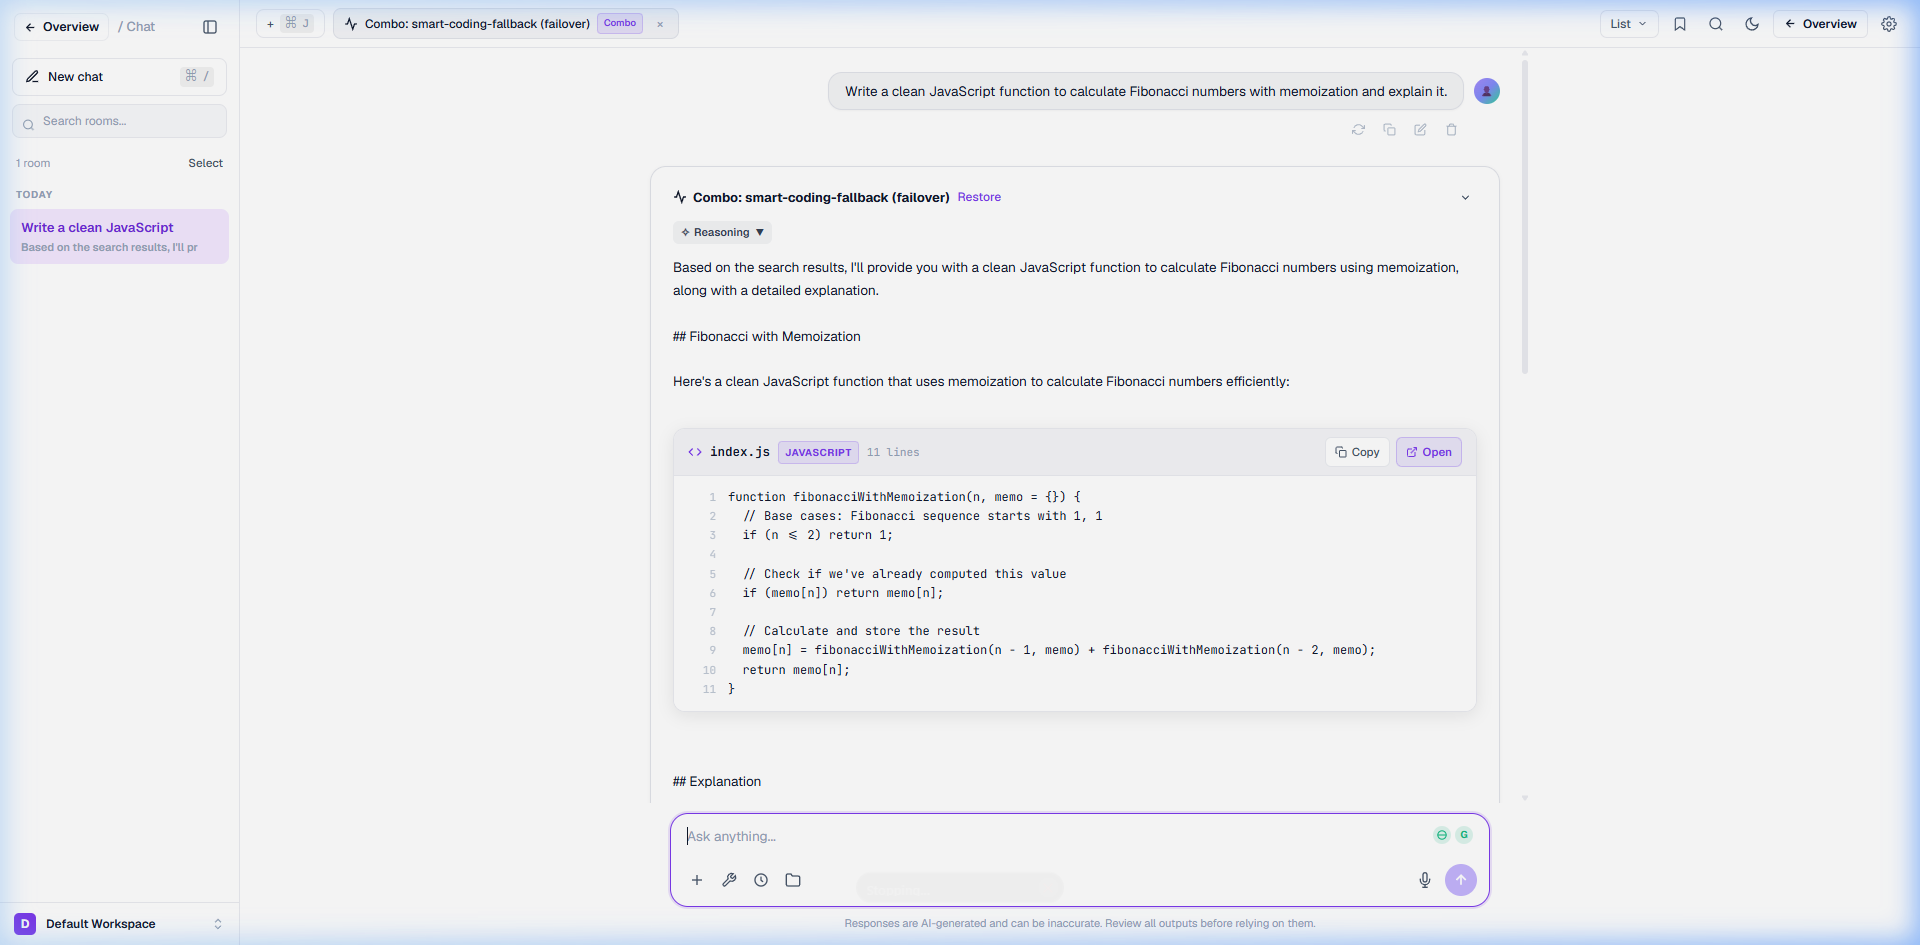
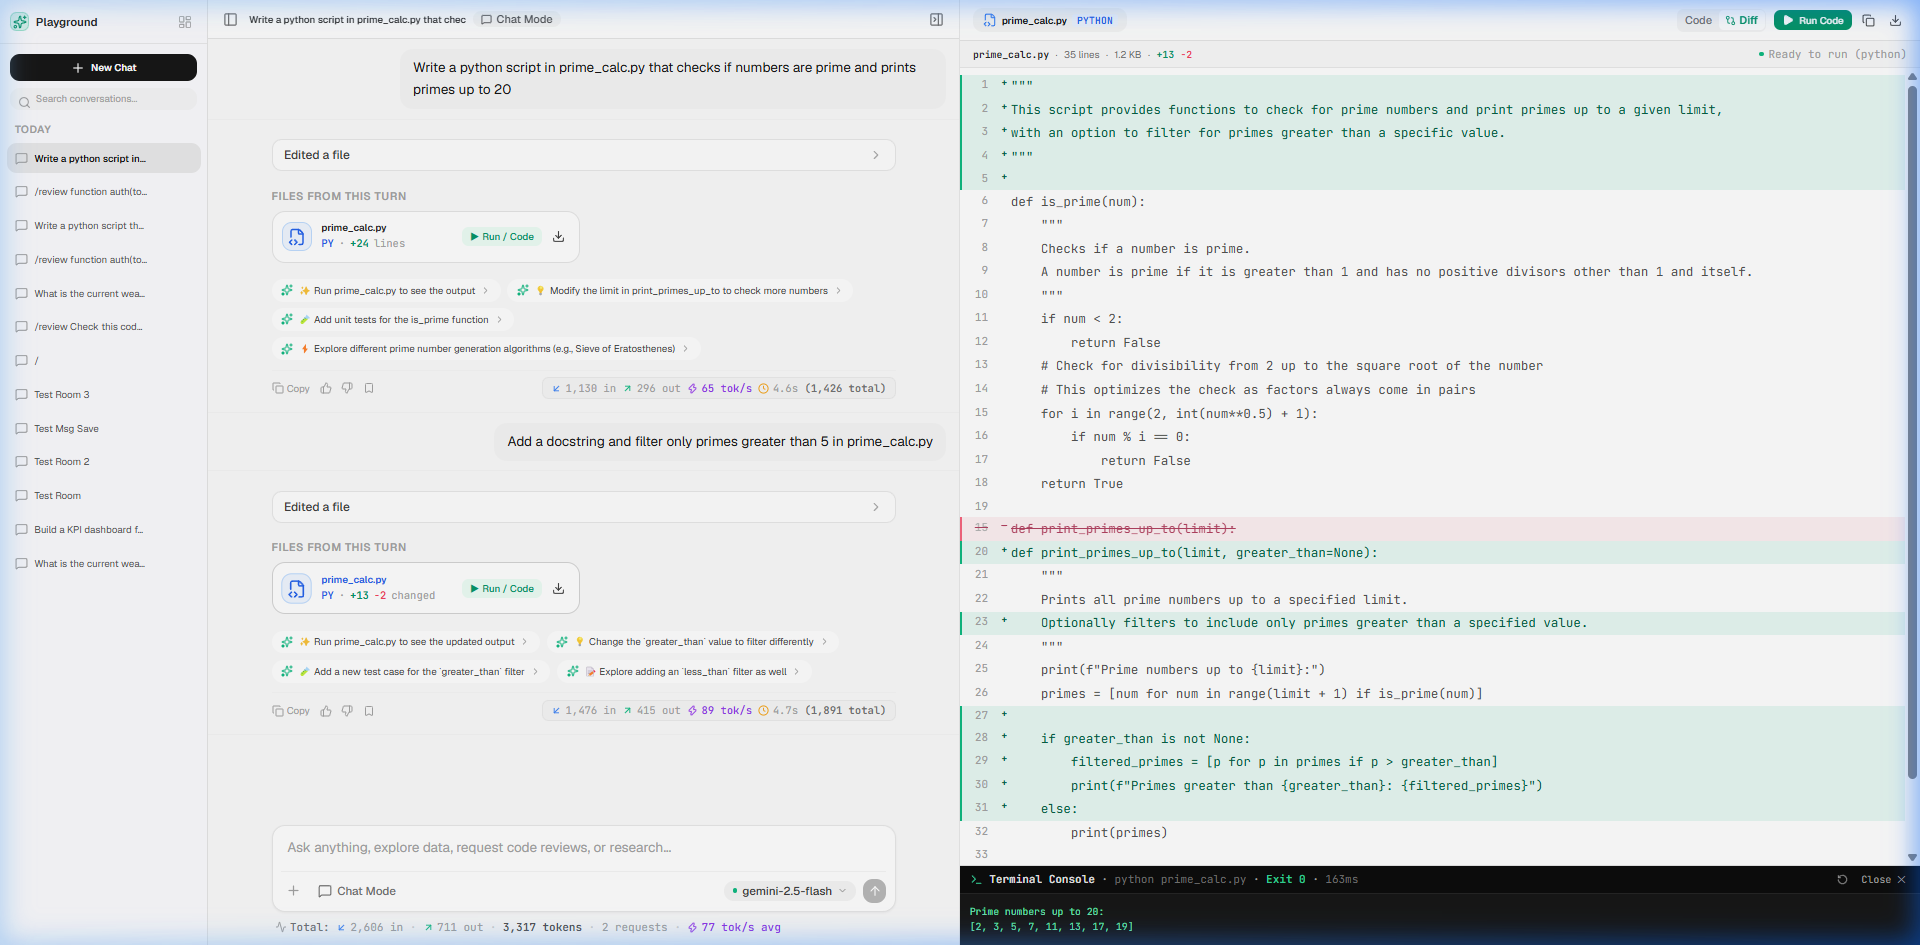
docs: update README with high-resolution screenshots for Unified Playground (Chat & Designer modes)

diff --git a/README.md b/README.md
@@ -61,18 +61,19 @@ Full visibility into incoming requests, TTFT, tokens per second, status codes, a
 Inspect active SQLite storage (`~/.freeroute/freeroute.db`), monitor entity counts, and export/restore 1-click JSON backups.
 ![Database & Backup](assets/screenshots/database-backup.png)
 
-### 9. AI Playground & 8 Server Tools
-Interactive conversational playground with multi-room history, context memory slider, and 8 server tools:
-- **Web Search**: Real-time web search grounding with configurable depth (Low, Medium, High).
-- **Web Fetch**: Clean Markdown content extraction from mentioned URLs.
-- **Image Generation**: On-the-fly text-to-image rendering powered by FLUX.1 Schnell.
-- **Datetime**: Authoritative client date, time, and timezone injection.
-- **Fusion**: Multi-model deliberation running a 3-model panel in parallel with consensus analysis.
-- **Advisor**: Mid-generation consultation of stronger frontier reasoning models (Claude 3.7 Sonnet, DeepSeek R1).
-- **Subagent**: Modular task decomposition delegated to high-speed worker models (North Mini, Gemma 2).
-- **Shell**: Real shell command and script execution with 30s safety timeout.
+### 9. Unified AI Playground (Chat Mode & Designer Studio)
+Full-screen, dual-mode AI workspace integrating conversational intelligence, live code execution, interactive diffs, and rapid prototype designing:
+- **Chat Coding Agent**: Live Python 3.11 and Node.js execution with docked terminal console, exit code tracking, and zero conversational inline code dumps.
+- **LCS Diff Engine**: Accurate line-by-line diff tracking with additions and deletions (`+13 -2 changed`) and unified side-by-side comparison.
+- **Designer Studio**: Live sandboxed prototype previews with runtime multi-file bundling (`index.html`, `styles.css`, `app.js`), Tailwind CSS, and Google Fonts.
+- **Mouse Inspector (🎯)**: Click-to-inspect UI elements in the preview iframe to surgically direct AI component modifications.
+- **Cursor IDE Agent Engine**: Dynamic workspace context ingestion (`<active_workspace_file>`, `<inspected_component>`) and native slash commands (`/review`, `/taste`, `/emil`, `/d3`, `/brandkit`).
 
-![AI Playground Conversation](assets/screenshots/playground.png)
+#### Chat Mode & Live Code Execution (Python + Diff Viewer)
+![AI Playground Chat Mode](assets/screenshots/playground-chat.png)
+
+#### Designer Studio & Live Sandboxed Preview
+![AI Playground Designer Studio](assets/screenshots/playground-designer.png)
 
 ---
 
